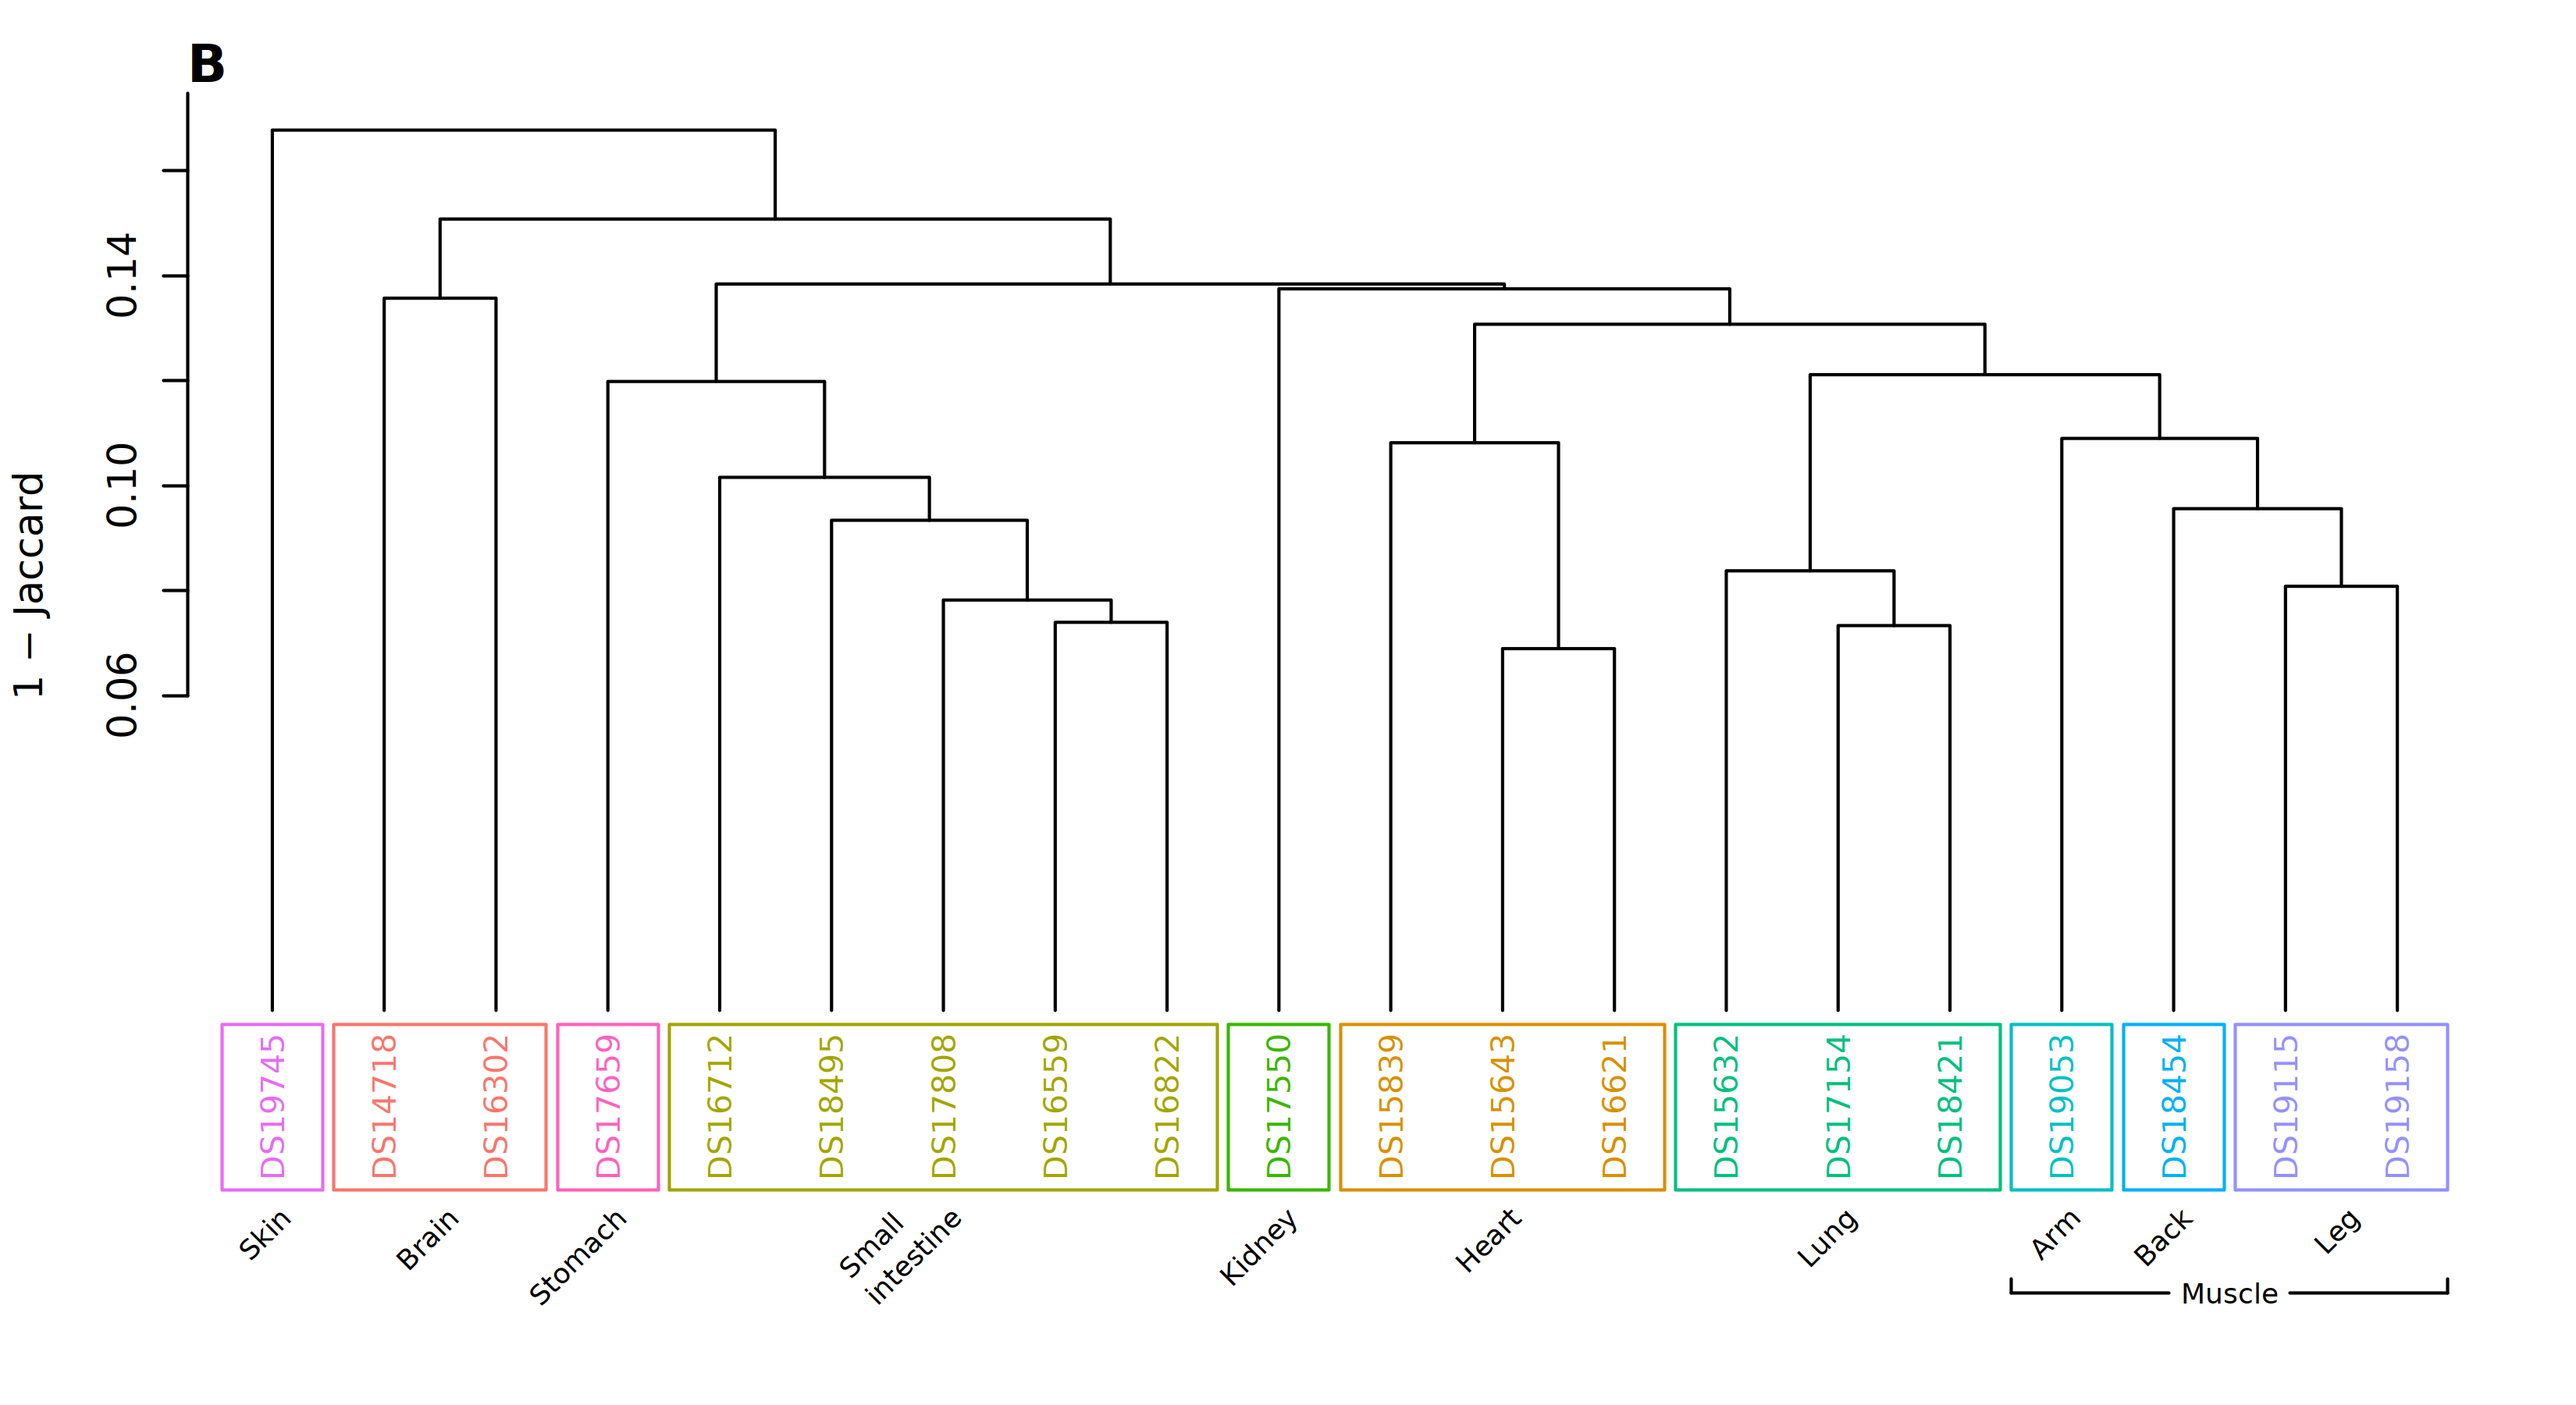
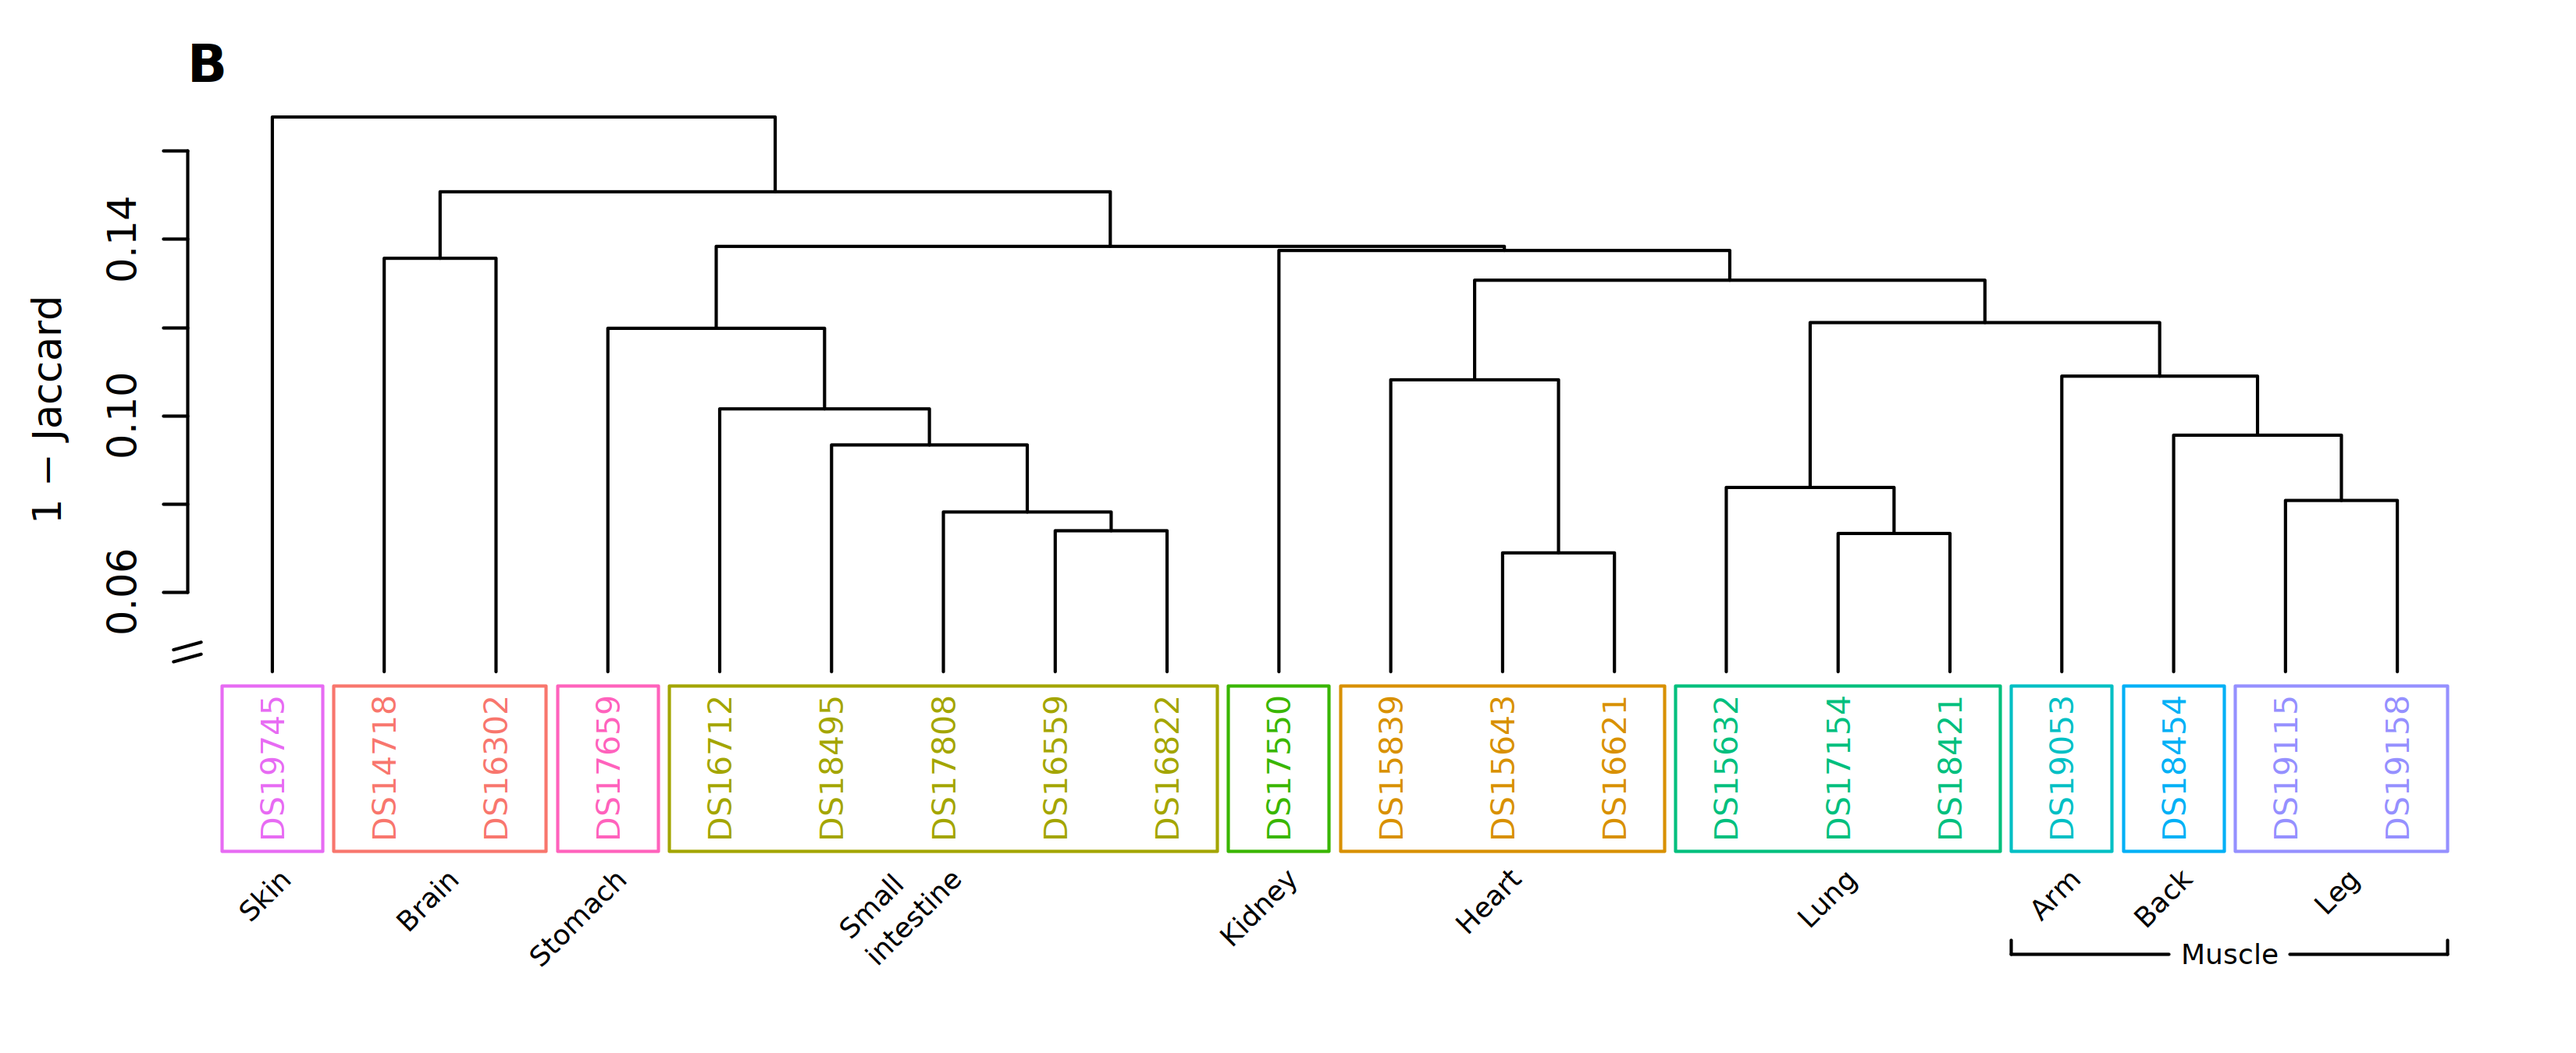
Promote precision-stability dendrograms to main results

diff --git a/paper/draft.md b/paper/draft.md
@@ -123,6 +123,14 @@ Together, the synthetic and real-data benchmarks show that hammock improves the 
 
 **Figure 7 generation.** The figure is generated by `paper/parameter_objective_tradeoff/plot_parameter_objective_tradeoff_estimators.R` and written to `paper/figures/parameter_objective_tradeoff_estimators.png`. The script reads `docs/data/mode_d_summary.csv`, supplementing the inclusion–exclusion rows from `experiments/maurano_dhs_validation/results/mode_d_summary.csv` when they are absent from the staged paper copy, and filters to `jaccard_similarity_ie`, p=18, BEDTools reference, k≥8, and non-missing Pearson/ARI values. It identifies the greatest-Pearson configuration and verifies the k=10, w=30 ARI optimum.
 
+Although the maximum-ARI configuration produced the same ten-cluster partition at p=12, p=18, and p=24 (ARI=0.910; NMI=0.961), the complete dendrogram changed across precisions (Figure 8). Thus, partition-level metrics can mask variation in within- and between-cluster hierarchical relationships.
+
+![Figure 8](figures/sequence_tissue_clustering_precision.png)
+
+**Figure 8. Stable tissue partitions can mask precision-dependent hierarchical variation.** The same 20 fetal-tissue DNase-seq interval sets were compared at k=10 and w=30 using the inclusion–exclusion Jaccard estimate at **(A)** p=12, **(B)** p=18, and **(C)** p=24. Each panel shows average-linkage agglomerative hierarchical clustering on 1−J; leaf labels are colored and boxed by annotated tissue. Cutting each hierarchy into ten clusters gives the same partition at all three precisions (ARI=0.910 and NMI=0.961), although branch heights, topology, and leaf order differ. The y-axis is linear above 1−J=0.05; the interval from 0 to 0.05 is compressed at the marked axis break to shorten the terminal branches without changing the displayed merge order or the scale above the break.
+
+**Figure 8 generation.** Panels A–C are generated with `paper/sequence_tissue_clustering/plot_sequence_tissue_clustering.R` from the p=12, p=18, and p=24 k=10, w=30 Mode D outputs using `jaccard_similarity_ie` and an axis break at 1−J=0.05. `paper/sequence_tissue_clustering/combine_precision_dendrograms.R` trims repeated outer margins and stacks the three panels as rows in `paper/figures/sequence_tissue_clustering_precision.png`.
+
 ## III. Discussion
 
 ### 3.1 Scaling comparison within references
@@ -289,12 +297,6 @@ Caveat worth carrying: `jaccard_similarity_ie` is censored at zero by the non-ne
 **Figure S5a. Numerical agreement with exact interval Jaccard does not maximize recovery of fetal-tissue organization.** The same 20 fetal-tissue DNase-seq interval sets shown in Figure 6 were compared using the inclusion–exclusion Jaccard estimate, `jaccard_similarity_ie`, at k=20, w=20, and HyperLogLog precision p=18—the parameter combination with the greatest Pearson correlation with exact BEDTools Jaccard within the p=18 comparison shown in Figure 7 (r=0.99997). **(A)** Average-linkage agglomerative hierarchical clustering was performed on 1−J. Leaf labels show dataset accessions and are colored and boxed by annotated tissue; these annotations do not represent a discrete cluster cut. **(B)** The complete pairwise 1−J distance matrix follows the dendrogram leaf order in A. Accession-label colors and marginal bars denote annotated tissues, with arm, back, and leg grouped under muscle. Lime-green diagonal outlines show the result of cutting the average-linkage agglomerative hierarchy into ten clusters. Relative to the annotated tissue partition, the cut separates the two brain samples, separates one of the five small-intestine samples, and combines the arm, back, and two leg samples into one cluster, yielding ARI=0.693 and NMI=0.905. In contrast, the biologically selected k=10, w=30 setting in Figure 6 at the same precision yields ARI=0.910 and NMI=0.961, demonstrating that numerical agreement with exact pairwise Jaccard and recovery of tissue organization select different sequence-sketch parameters.
 
 **Figure S5a generation.** Panel A is generated by `paper/sequence_tissue_clustering/plot_sequence_tissue_clustering.R` using `experiments/maurano_dhs_validation/results/raw_d/hammock_mnmzr_p18_jaccD_k20_w20_full.csv`, the Maurano tissue key, `paper/figures/sequence_tissue_clustering_k20_w20.png`, and `jaccard_similarity_ie` as its four positional arguments. Panel B is generated by `paper/sequence_tissue_clustering/plot_distance_heatmap.R` with the same input CSV, tissue key, `paper/figures/sequence_tissue_distance_heatmap_k20_w20.png`, and similarity-column argument.
-
-![Figure S5b](figures/sequence_tissue_clustering_precision.png)
-
-**Figure S5b. Tissue recovery at the biological optimum is stable across HyperLogLog precision despite changes in dendrogram topology.** The same 20 fetal-tissue DNase-seq interval sets were compared at k=10 and w=30 using the inclusion–exclusion Jaccard estimate at **(A)** p=12, **(B)** p=18, and **(C)** p=24. Each panel shows average-linkage agglomerative hierarchical clustering on 1−J; leaf labels are colored and boxed by annotated tissue. Cutting each hierarchy into ten clusters gives the same partition at all three precisions (ARI=0.910 and NMI=0.961), although branch heights, topology, and leaf order differ. Thus the reported tissue-recovery result does not depend on selecting a high sketch precision.
-
-**Figure S5b generation.** Panels A–C are generated with `paper/sequence_tissue_clustering/plot_sequence_tissue_clustering.R` from the p=12, p=18, and p=24 k=10, w=30 Mode D outputs using `jaccard_similarity_ie`. `paper/sequence_tissue_clustering/combine_precision_dendrograms.R` stacks the three panels as rows in `paper/figures/sequence_tissue_clustering_precision.png`.
 
 - **Figure S5b — cross-reference dendrogram on `reg_eq_similarity`:** `paper/figures/cross_reference_identity_regeq.png`, generated by `paper/cross_reference_identity/plot_cross_reference_identity.R` with the output path and `reg_eq_similarity` as its two positional arguments. Register-equality companion to the now-`jaccard_similarity_ie`-based Figure 5; see S5.
 - **Table S5 — estimator agreement:** `paper/sequence_tissue_clustering/estimator_agreement_stats.csv` (per-column ARI/NMI and partition identity at Figure 6's cell), `experiments/maurano_dhs_validation/results/estimator_ari_by_config.csv` (all 235 cells), `experiments/maurano_dhs_validation/results/best_config_by_column.csv` (per-column optimum with tie sets), and `experiments/ref-comparison/results/exp_a_estimator_delta.csv` (cross-reference Δ per cell).

diff --git a/paper/outline.md b/paper/outline.md
@@ -96,6 +96,14 @@ Together, the synthetic and real-data benchmarks show that hammock improves the 
 
 **Figure 7 generation.** The figure is generated by `paper/parameter_objective_tradeoff/plot_parameter_objective_tradeoff_estimators.R` and written to `paper/figures/parameter_objective_tradeoff_estimators.png`. The script reads `docs/data/mode_d_summary.csv`, supplementing the inclusion–exclusion rows from `experiments/maurano_dhs_validation/results/mode_d_summary.csv` when they are absent from the staged paper copy, and filters to `jaccard_similarity_ie`, p=18, BEDTools reference, k≥8, and non-missing Pearson/ARI values. It identifies the greatest-Pearson configuration and verifies the k=10, w=30 ARI optimum.
 
+Although the maximum-ARI configuration produced the same ten-cluster partition at p=12, p=18, and p=24 (ARI=0.910; NMI=0.961), the complete dendrogram changed across precisions (Figure 8). Thus, partition-level metrics can mask variation in within- and between-cluster hierarchical relationships.
+
+![Figure 8](figures/sequence_tissue_clustering_precision.png)
+
+**Figure 8. Stable tissue partitions can mask precision-dependent hierarchical variation.** The same 20 fetal-tissue DNase-seq interval sets were compared at k=10 and w=30 using the inclusion–exclusion Jaccard estimate at **(A)** p=12, **(B)** p=18, and **(C)** p=24. Each panel shows average-linkage agglomerative hierarchical clustering on 1−J; leaf labels are colored and boxed by annotated tissue. Cutting each hierarchy into ten clusters gives the same partition at all three precisions (ARI=0.910 and NMI=0.961), although branch heights, topology, and leaf order differ. The y-axis is linear above 1−J=0.05; the interval from 0 to 0.05 is compressed at the marked axis break to shorten the terminal branches without changing the displayed merge order or the scale above the break.
+
+**Figure 8 generation.** Panels A–C are generated with `paper/sequence_tissue_clustering/plot_sequence_tissue_clustering.R` from the p=12, p=18, and p=24 k=10, w=30 Mode D outputs using `jaccard_similarity_ie` and an axis break at 1−J=0.05. `paper/sequence_tissue_clustering/combine_precision_dendrograms.R` trims repeated outer margins and stacks the three panels as rows in `paper/figures/sequence_tissue_clustering_precision.png`.
+
 ### Supplementary Figure S1 — interval accuracy at higher precision
 
 ![Figure S1](figures/interval_accuracy_p21.png)
@@ -113,12 +121,6 @@ Together, the synthetic and real-data benchmarks show that hammock improves the 
 **Figure S5a. Numerical agreement with exact interval Jaccard does not maximize recovery of fetal-tissue organization.** The same 20 fetal-tissue DNase-seq interval sets shown in Figure 6 were compared using the inclusion–exclusion Jaccard estimate, `jaccard_similarity_ie`, at k=20, w=20, and HyperLogLog precision p=18—the parameter combination with the greatest Pearson correlation with exact BEDTools Jaccard within the p=18 comparison shown in Figure 7 (r=0.99997). **(A)** Average-linkage agglomerative hierarchical clustering was performed on 1−J. Leaf labels show dataset accessions and are colored and boxed by annotated tissue; these annotations do not represent a discrete cluster cut. **(B)** The complete pairwise 1−J distance matrix follows the dendrogram leaf order in A; this display ordering does not affect distances or cluster assignments. Accession-label colors and marginal bars denote annotated tissues, with arm, back, and leg grouped under muscle. Lime-green diagonal outlines show the result of cutting the average-linkage agglomerative hierarchy into ten clusters. Relative to the annotated tissue partition, the cut separates the two brain samples, separates one of the five small-intestine samples, and combines the arm, back, and two leg samples into one cluster, yielding ARI=0.693 and NMI=0.905. In contrast, the biologically selected k=10, w=30 setting in Figure 6 at the same precision yields ARI=0.910 and NMI=0.961, demonstrating that numerical agreement with exact pairwise Jaccard and recovery of tissue organization select different sequence-sketch parameters.
 
 **Figure S5a generation.** Panel A is generated by `paper/sequence_tissue_clustering/plot_sequence_tissue_clustering.R` using `experiments/maurano_dhs_validation/results/raw_d/hammock_mnmzr_p18_jaccD_k20_w20_full.csv`, the Maurano tissue key, `paper/figures/sequence_tissue_clustering_k20_w20.png`, and `jaccard_similarity_ie` as its four positional arguments. Panel B is generated by `paper/sequence_tissue_clustering/plot_distance_heatmap.R` with the same input CSV, tissue key, `paper/figures/sequence_tissue_distance_heatmap_k20_w20.png`, and similarity-column argument.
-
-![Figure S5b](figures/sequence_tissue_clustering_precision.png)
-
-**Figure S5b. Tissue recovery at the biological optimum is stable across HyperLogLog precision despite changes in dendrogram topology.** The same 20 fetal-tissue DNase-seq interval sets were compared at k=10 and w=30 using the inclusion–exclusion Jaccard estimate at **(A)** p=12, **(B)** p=18, and **(C)** p=24. Each panel shows average-linkage agglomerative hierarchical clustering on 1−J; leaf labels are colored and boxed by annotated tissue. Cutting each hierarchy into ten clusters gives the same partition at all three precisions (ARI=0.910 and NMI=0.961), although branch heights, topology, and leaf order differ. Thus the reported tissue-recovery result does not depend on selecting a high sketch precision.
-
-**Figure S5b generation.** Panels A–C are generated with `paper/sequence_tissue_clustering/plot_sequence_tissue_clustering.R` from the p=12, p=18, and p=24 k=10, w=30 Mode D outputs using `jaccard_similarity_ie`. `paper/sequence_tissue_clustering/combine_precision_dendrograms.R` stacks the three panels as rows in `paper/figures/sequence_tissue_clustering_precision.png`.
 
 ## III. Discussion
 
